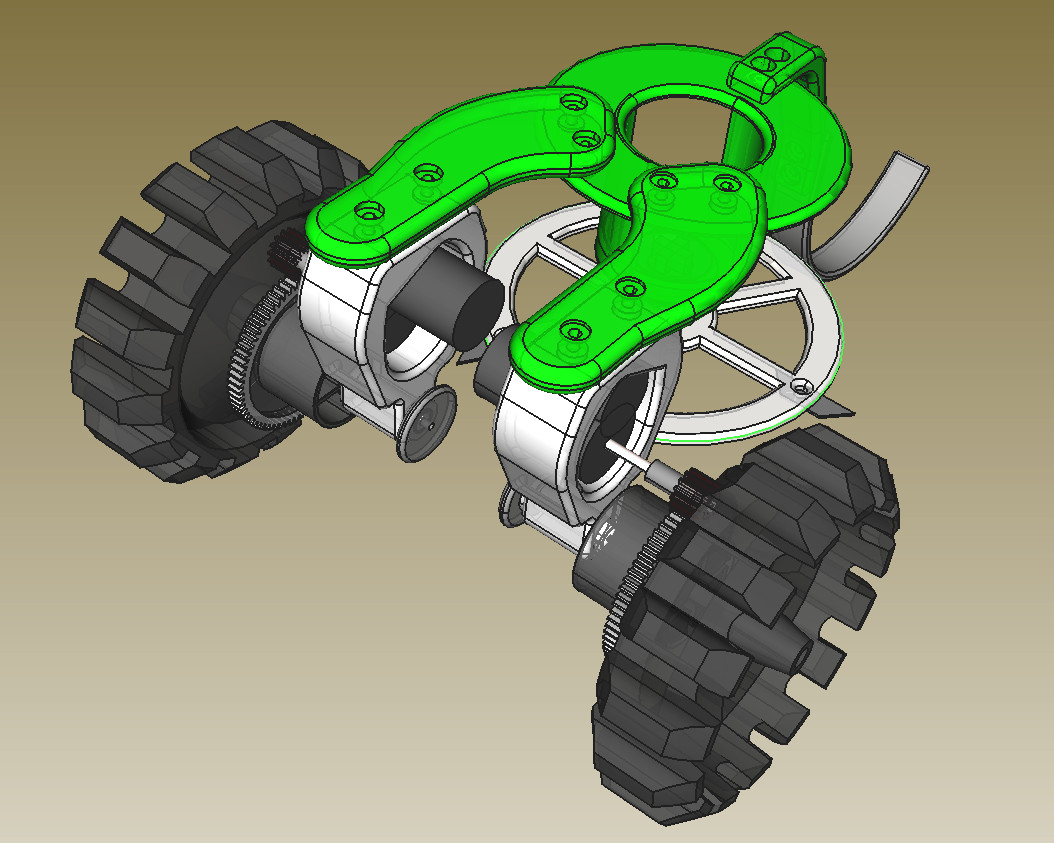
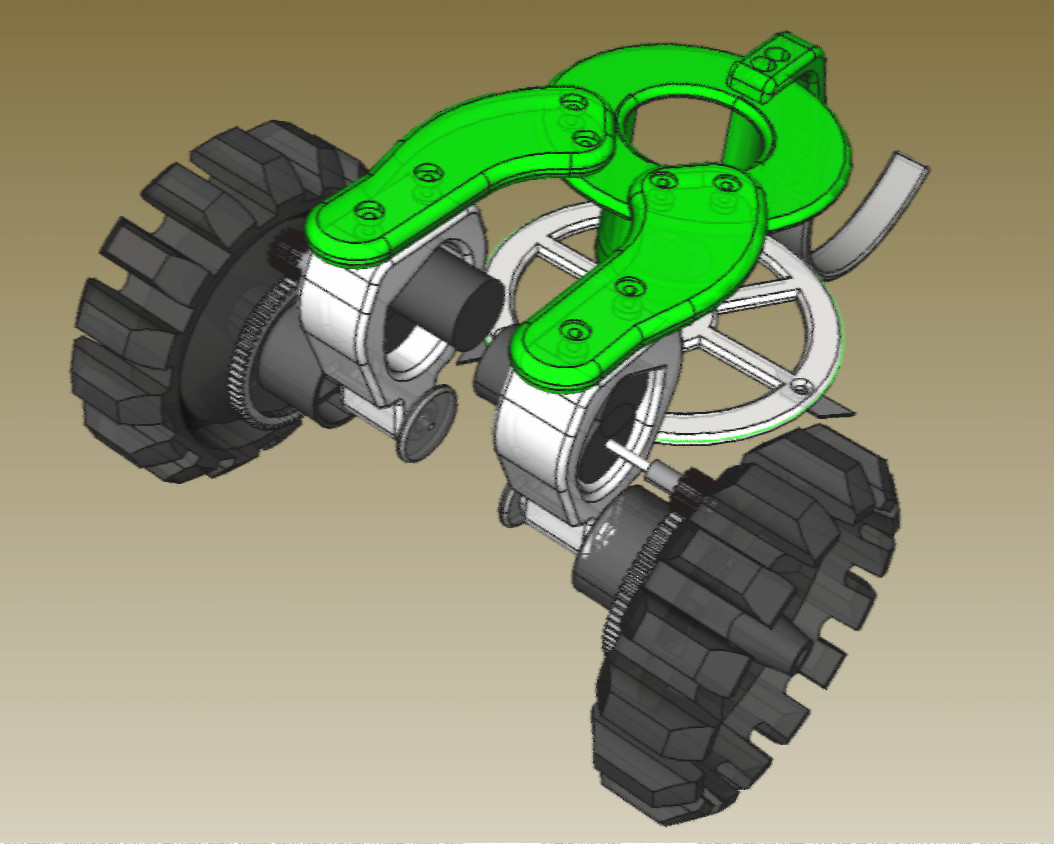
'mower images'

diff --git a/README.md b/README.md
@@ -110,8 +110,8 @@ schuler at usa.com
 </pre>
 
 <p float="left">
-<img src="https://github.com/schuler-robotics/ultrasonic-rangefinder/blob/master/images/mower-01-concept-20220505.jpg" width="350" />
 <img src="https://github.com/schuler-robotics/ultrasonic-rangefinder/blob/master/images/mower-01-concept-A-20220505.jpg" width="350" />
+<img src="https://github.com/schuler-robotics/ultrasonic-rangefinder/blob/master/images/mower-01-concept-B-20220505.jpg" width="350" />
 </p>
 An ultrasonic rangefinder receiver will sit atop this 3D printed robot lawn mower chasis.
 <br />
